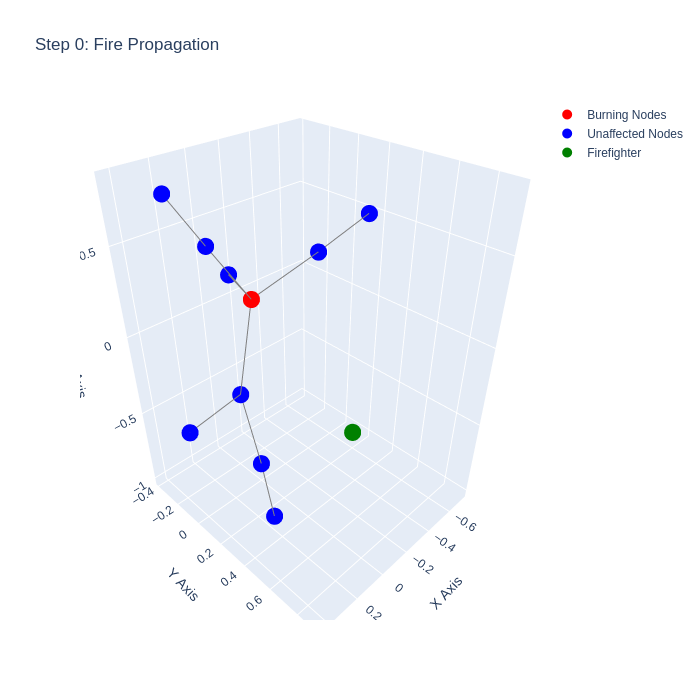
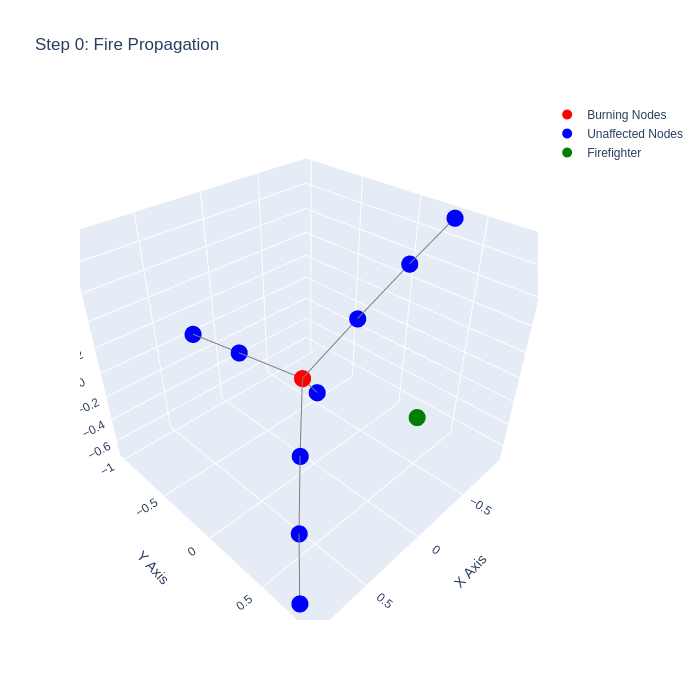
Ignore first position

diff --git a/visualizer.py b/visualizer.py
@@ -76,12 +76,12 @@ def plot_experiment(experiment_id, method, experiments_data, results_data, save_
     visualize.plot_fire_state(burning_nodes, burned_nodes, step, initial_firefighter_position)
     visualize.plot_2d_tree_with_root(tree, tree_root)
 
-    for firefighter_position in firefighter_positions:
+    for i in range(len(firefighter_positions)-1):
         step += 1
         fire_propagation.propagate()
         burning_nodes, burned_nodes = fire_propagation.display_state()
-        visualize.plot_fire_state(burning_nodes, burned_nodes, step, firefighter_position)
+        visualize.plot_fire_state(burning_nodes, burned_nodes, step, firefighter_positions[i+1])
 
 
 # Graficar y guardar cada paso de un experimento específico
-plot_experiment(1, 'dynamic_programming', experiments_data, results_data, save_path_prefix='experiment_1')
+plot_experiment(3, 'dynamic_programming', experiments_data, results_data, save_path_prefix='experiment_3')
